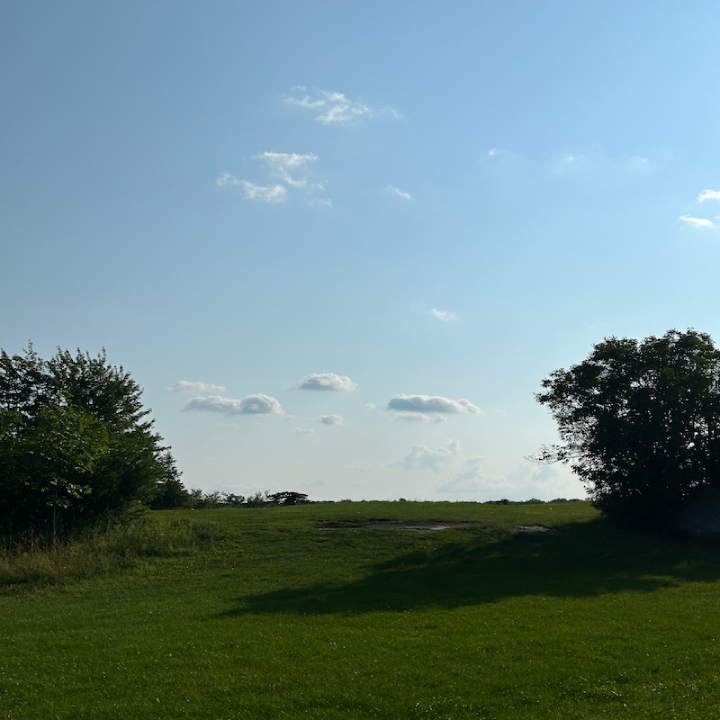
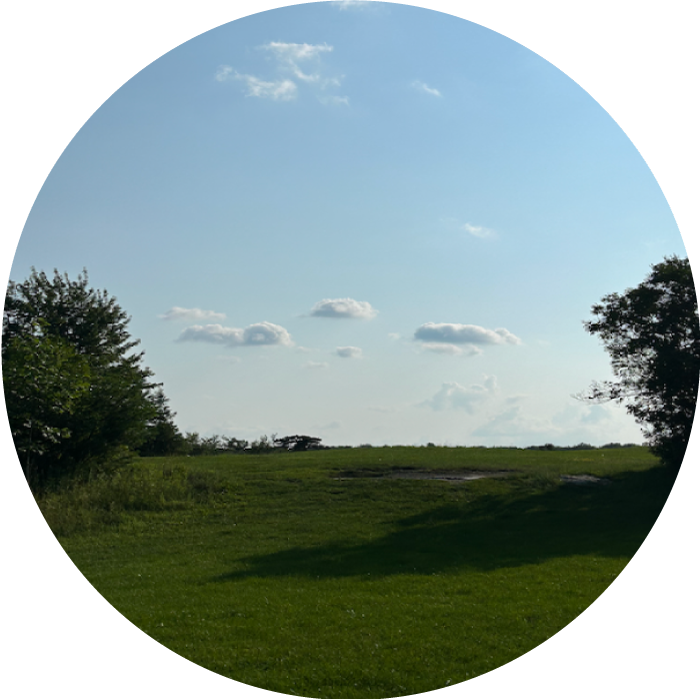
new wallpaper who dis

diff --git a/index.css b/index.css
@@ -10,8 +10,6 @@
   --default-font: 16px;
   --default-line-height: 24px;
   --default-wallpaper: url(public/wallpaper.png);
-  --default-clip-path: circle(44% at 49% 56%);
-  --default-wallpaper-width: 100%;
   --default-dot: green;
   --default-link: rgb(0, 0, 255);
 }
@@ -30,9 +28,6 @@
   }
   #wallpaper {
     --default-wallpaper: url(public/wallpaper_dark.png);
-    --default-clip-path: circle(40% at 48% 64%);
-    --default-wallpaper-width: 85% !important;
-    margin-top: -25%;
   }
 }
 
@@ -127,12 +122,9 @@ h6 {
 
 #wallpaper {
   content: var(--default-wallpaper);
-  margin-top: min(-110px, -25%);
-  margin-left: 4.5%;
-  clip-path: var(--default-clip-path);
-  width: var(--default-wallpaper-width);
   object-fit: cover;
-  max-width: 700px;
+  max-width: 550px;
+  width: 77%;
 }
 
 span {
